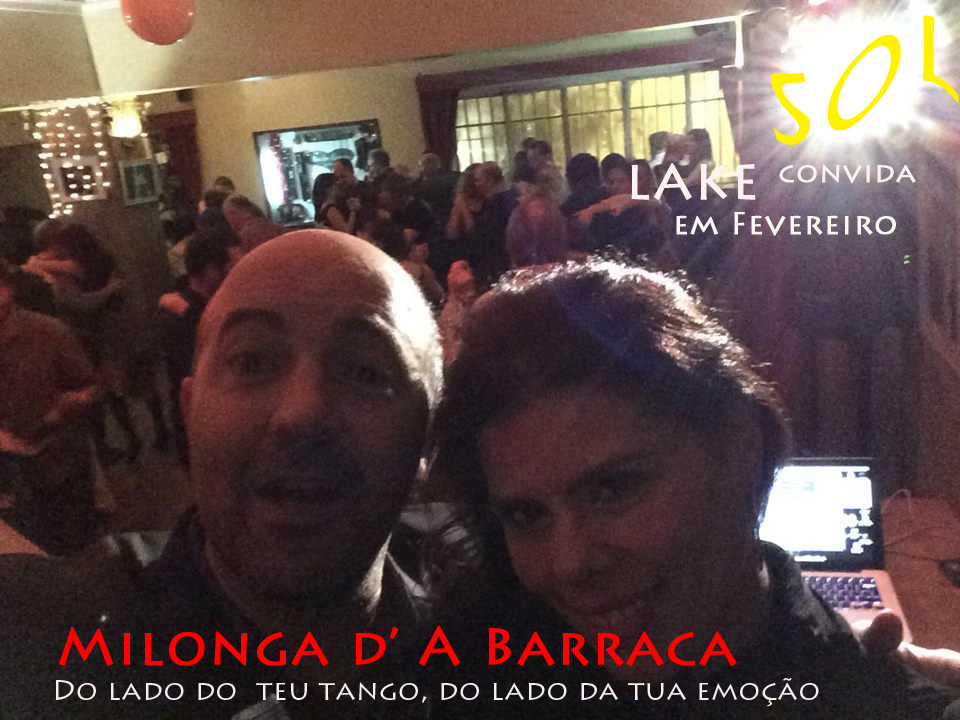
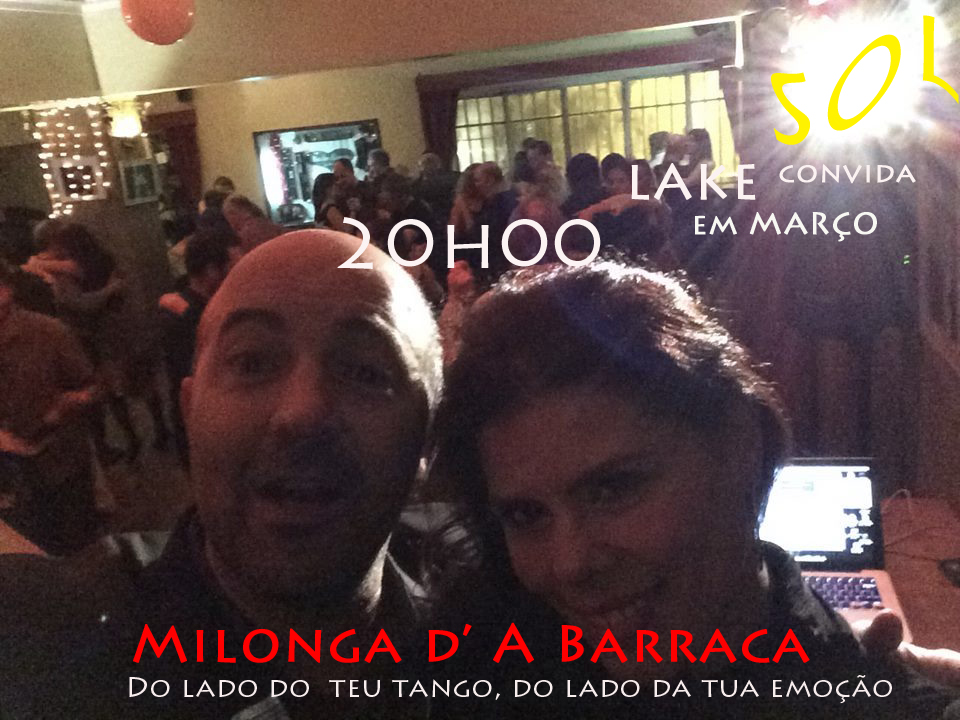
Nova actualizacao

Changed region(s): [[0.0625, 0.8556, 0.9375, 0.9778], [0.3438, 0.3056, 0.625, 0.3972], [0.6875, 0.275, 0.9375, 0.3361]]

diff --git a/public/main.htm b/public/main.htm
@@ -1114,6 +1114,8 @@ Esta emo&ccedil;&atilde;o requer que um &laquo;corpo do tango&raquo; cres&ccedil
         </font></font></font></font></strong></font></strong></font></font></strong></font></font></font></font></strong></font></strong></font></font></font></strong></font></font></font></strong></font></strong></font></font></strong></font></font></font></font></span></strong></strong></font></font></font></strong></strong></font></font></font></strong></font></strong></font></font></strong></font></font></font></font></font></font></font></font></span></span></font></font></font></font></strong></font></strong></font></font></strong></font></font></font></font></strong></font></strong></font></font></font></strong></font></font></font></strong><span class="AULA_DE_TANGO"><font color="#999999"><font color="#999999"><font color="#999999"><font color="#999999"><font color="#999999"><font color="#999999"><font color="#999999"><font color="#999999"><strong><strong><span class="font_12"><font color="#999999"><font color="#999999"><font color="#999999"><font color="#999999"><strong><font color="#999999"><font color="#999999"><strong><font color="#999999"><strong><font color="#999999"><font color="#999999"><font color="#999999"><font color="#999999"><strong><strong><font color="#999999"><font color="#999999"><font color="#999999"><font color="#999999"><strong><strong><span class="MsoNormal" style="text-justify:inter-ideograph; text-align: center;"><span class="MsoNormal" style="text-align:justify;line-height:150%;"><span style="line-height:150%; font-family:'Times New Roman'; font-size:12.0pt; color:black; "><font color="#999999"><span class="style11"><strong><strong><font face="Comic Sans MS"><font color="#CC9900" face="Arial"><font color="#999999"><font color="#999999"><font color="#999999"><font color="#999999"><font color="#999999"><font color="#999999"><font color="#999999"><font color="#999999"><font color="#999999"><font color="#999999"><font color="#999999"><font color="#999999"><font color="#999999"><font color="#999999"><font color="#999999"><font color="#999999"><strong><font color="#999999"><font color="#999999"><strong><font color="#999999"><strong><font color="#999999"><font color="#999999"><font color="#999999"><font color="#999999"><span class="ALEJANDROLAGUNA"><font color="#999999"><font color="#999999"><font color="#999999"><font color="#999999"><font color="#999999"><strong><font color="#999999"><strong><font color="#999999"><font color="#999999"><font color="#999999"><strong><font color="#999999"><strong><font color="#999999"><font color="#999999"><strong><strong><font color="#999999"><font color="#999999"><font color="#999999"><font color="#999999"><strong><font color="#999999"><font color="#999999"><strong><font color="#999999"><strong><font color="#999999"><font color="#999999"><font color="#999999"><font color="#999999"><font color="#999999"><font color="#999999"><font color="#999999"><strong><font color="#999999"><font color="#999999"><strong><font color="#999999"><strong><font color="#999999"><font color="#999999"><font color="#999999"><font color="#999999"><font color="#999999"><font color="#999999"><font color="#999999"><font color="#999999"><font color="#999999"><strong><strong><strong><strong><strong><strong><strong><strong><span class="MsoNormal" style="text-align:justify;line-height:150%;"><span class="MsoNormal" style="text-align:justify;line-height:150%;"><span class="MsoNormal" style="text-align:justify;line-height:150%;"><font color="#999999"><font color="#999999"><font color="#999999"><font color="#999999"><strong><font color="#999999"><font color="#999999"><strong><font color="#999999"><strong><font color="#999999"><font color="#999999"><font color="#999999"><strong><font color="#999999"><font color="#999999"><font color="#999999"><strong><font color="#999999"><strong><span style="font: normal 24px Arial"><font color="#999999"><font color="#999999"><font color="#999999"><font color="#999999"><strong><font color="#999999"><font color="#999999"><strong><font color="#999999"><strong><font color="#999999"><font color="#999999"><font color="#999999"><font color="#999999"><font color="#999999"><font color="#999999"><font color="#999999"><font color="#999999"><font color="#999999"><font color="#999999"><font color="#999999"><font color="#999999"><strong><font color="#999999"><font color="#999999"><strong><font color="#999999"><strong><font color="#999999"><font color="#999999"><font color="#999999"><strong><strong><font color="#999999"><font color="#999999"><font color="#999999"><strong><strong>Domingos / Sunday</strong></strong></font></font></font></strong></strong></font></font></font></strong></font></strong></font></font></strong></font></font></font></font></font></font></font></font></font></font></font></font></strong></font></strong></font></font></strong></font></font></font></font></span></strong></font></strong></font></font></font></strong></font></font></font></strong></font></strong></font></font></strong></font></font></font></font></span></span></span></strong></strong></strong></strong></strong></strong></strong></strong></font></font></font></font></font></font></font></font></font></strong></font></strong></font></font></strong></font></font></font></font></font></font></font></strong></font></strong></font></font></strong></font></font></font></font></strong></strong></font></font></strong></font></strong></font></font></font></strong></font></strong></font></font></font></font></font></span></font></font></font></font></strong></font></strong></font></font></strong></font></font></font></font></font></font></font></font></font></font></font></font></font></font></font></font></font></font></strong></strong></span></font></span></span></span></strong></strong></font></font></font></font></strong></strong></font></font></font></font></strong></font></strong></font></font></strong></font></font></font></font></span></strong></strong></font></font></font></font></font></font></font></font></span><span style="font: normal 24px Arial"><font color="#999999"><font color="#999999"><font color="#999999"><font color="#999999"><font color="#999999"><font color="#999999"><font color="#999999"><font color="#999999"><strong><strong><span class="SBOA"><font color="#999999"><font color="#999999"><font color="#999999"><font color="#999999"><strong><font color="#999999"><font color="#999999"><strong><font color="#999999"><strong><font color="#999999"><font color="#999999"><font color="#999999"><font color="#999999"><strong><strong><font color="#999999"><font color="#999999"><font color="#999999"><font color="#999999"><strong><strong><span class="MsoNormal" style="text-justify:inter-ideograph; text-align: center;"><span class="MsoNormal" style="text-align:justify;line-height:150%;"><span style="line-height:150%; font-family:'Times New Roman'; font-size:12.0pt;"><font color="#999999"><span class="style11"><strong><strong><font color="#CC9900"><font color="#999999"><font color="#999999"><font color="#999999"><font color="#999999"><font color="#999999"><font color="#999999"><font color="#999999"><font color="#999999"><font color="#999999"><font color="#999999"><font color="#999999"><font color="#999999"><font color="#999999"><font color="#999999"><font color="#999999"><font color="#999999"><strong><font color="#999999"><font color="#999999"><strong><font color="#999999"><strong><font color="#999999"><font color="#999999"><font color="#999999"><font color="#999999"><span style="font: normal 18px Arial"><font color="#999999"><font color="#999999"><font color="#999999"><font color="#999999"><font color="#999999"><strong><font color="#999999"><strong><font color="#999999"><font color="#999999"><font color="#999999"><strong><font color="#999999"><strong><font color="#999999"><font color="#999999"><strong><strong><font color="#999999"><font color="#999999"><font color="#999999"><font color="#999999"><strong><font color="#999999"><font color="#999999"><strong><font color="#999999"><strong><font color="#999999"><font color="#999999"><font color="#999999"><font color="#999999"><font color="#999999"><font color="#999999"><font color="#999999"><strong><font color="#999999"><font color="#999999"><strong><font color="#999999"><strong><font color="#999999"><font color="#999999"><font color="#999999"><font color="#999999"><font color="#999999"><font color="#999999"><font color="#999999"><font color="#999999"><font color="#999999"><strong><strong><strong><strong><strong><strong><strong><strong><span class="MsoNormal" style="text-align:justify;line-height:150%;"><span class="MsoNormal" style="text-align:justify;line-height:150%;"><span class="MsoNormal" style="text-align:justify;line-height:150%;"><font color="#999999"><font color="#999999"><font color="#999999"><font color="#999999"><strong><font color="#999999"><font color="#999999"><strong><font color="#999999"><strong><font color="#999999"><font color="#999999"><font color="#999999"><strong><font color="#999999"><font color="#999999"><font color="#999999"><strong><font color="#999999"><strong><span style="font: normal 24px Arial; font-size: 24px"><font color="#999999"><font color="#999999"><font color="#999999"><font color="#999999"><strong><font color="#999999"><font color="#999999"><strong><font color="#999999"><strong><font color="#999999"><font color="#999999"><font color="#999999"><font color="#999999"><font color="#999999"><font color="#999999"><font color="#999999"><font color="#999999"><font color="#999999"><font color="#999999"><font color="#999999"><font color="#999999"><strong><font color="#999999"><font color="#999999"><strong><font color="#999999"><strong><font color="#999999"><font color="#999999"><font color="#999999"><strong><strong><font color="#999999"><font color="#999999"><strong><strong>: </strong></strong></font></font></strong></strong></font></font></font></strong></font></strong></font></font></strong></font></font></font></font></font></font></font></font></font></font></font></font></strong></font></strong></font></font></strong></font></font></font></font></span></strong></font></strong></font></font></font></strong></font></font></font></strong></font></strong></font></font></strong></font></font></font></font></span></span></span></strong></strong></strong></strong></strong></strong></strong></strong></font></font></font></font></font></font></font></font></font></strong></font></strong></font></font></strong></font></font></font></font></font></font></font></strong></font></strong></font></font></strong></font></font></font></font></strong></strong></font></font></strong></font></strong></font></font></font></strong></font></strong></font></font></font></font></font></span></font></font></font></font></strong></font></strong></font></font></strong></font></font></font></font></font></font></font></font></font></font></font></font></font></font></font></font></font></strong></strong></span></font></span></span></span></strong></strong></font></font></font></font></strong></strong></font></font></font></font></strong></font></strong></font></font></strong></font></font></font></font></span></strong></strong></font></font></font></font></font></font></font></font></span><span class="AULA_DE_TANGO"><font color="#999999"><font color="#999999"><font color="#999999"><font color="#999999"><font color="#999999"><font color="#999999"><font color="#999999"><font color="#999999"><strong><strong><span class="font_12"><font color="#999999"><font color="#999999"><font color="#999999"><font color="#999999"><strong><font color="#999999"><font color="#999999"><strong><font color="#999999"><strong><font color="#999999"><font color="#999999"><font color="#999999"><font color="#999999"><strong><strong><font color="#999999"><font color="#999999"><font color="#999999"><font color="#999999"><strong><strong><span class="MsoNormal" style="text-justify:inter-ideograph; text-align: center;"><span class="MsoNormal" style="text-align:justify;line-height:150%;"><span style="line-height:150%; font-family:'Times New Roman'; font-size:12.0pt; color:black; "><font color="#999999"><span class="style11"><strong><strong><font face="Comic Sans MS"><font color="#CC9900" face="Arial"><font color="#999999"><font color="#999999"><font color="#999999"><font color="#999999"><font color="#999999"><font color="#999999"><font color="#999999"><font color="#999999"><font color="#999999"><font color="#999999"><font color="#999999"><font color="#999999"><font color="#999999"><font color="#999999"><font color="#999999"><font color="#999999"><strong><font color="#999999"><font color="#999999"><strong><font color="#999999"><strong><font color="#999999"><font color="#999999"><font color="#999999"><font color="#999999"><span class="ALEJANDROLAGUNA"><font color="#999999"><font color="#999999"><font color="#999999"><font color="#999999"><font color="#999999"><strong><font color="#999999"><strong><font color="#999999"><font color="#999999"><font color="#999999"><strong><font color="#999999"><strong><font color="#999999"><font color="#999999"><strong><strong><font color="#999999"><font color="#999999"><font color="#999999"><font color="#999999"><strong><font color="#999999"><font color="#999999"><strong><font color="#999999"><strong><font color="#999999"><font color="#999999"><font color="#999999"><font color="#999999"><font color="#999999"><font color="#999999"><font color="#999999"><strong><font color="#999999"><font color="#999999"><strong><font color="#999999"><strong><font color="#999999"><font color="#999999"><font color="#999999"><font color="#999999"><font color="#999999"><font color="#999999"><font color="#999999"><font color="#999999"><font color="#999999"><strong><strong><strong><strong><strong><strong><strong><strong><span class="MsoNormal" style="text-align:justify;line-height:150%;"><span class="MsoNormal" style="text-align:justify;line-height:150%;"><span class="MsoNormal" style="text-align:justify;line-height:150%;"><font color="#999999"><font color="#999999"><font color="#999999"><font color="#999999"><strong><font color="#999999"><font color="#999999"><strong><font color="#999999"><strong><font color="#999999"><font color="#999999"><font color="#999999"><strong><font color="#999999"><font color="#999999"><font color="#999999"><strong><font color="#999999"><strong><span style="font: normal 24px Arial"><font color="#999999"><font color="#999999"><font color="#999999"><font color="#999999"><strong><font color="#999999"><font color="#999999"><strong><font color="#999999"><strong><font color="#999999"><font color="#999999"><font color="#999999"><font color="#999999"><font color="#999999"><font color="#999999"><font color="#999999"><font color="#999999"><font color="#999999"><font color="#999999"><font color="#999999"><font color="#999999"><strong><font color="#999999"><font color="#999999"><strong><font color="#999999"><strong><font color="#999999"><font color="#999999"><font color="#999999"><strong><strong><font color="#999999"><font color="#999999"><font color="#999999"><strong><strong>21h30 &mdash; 00h30</strong></strong></font></font></font></strong></strong></font></font></font></strong></font></strong></font></font></strong></font></font></font></font></font></font></font></font></font></font></font></font></strong></font></strong></font></font></strong></font></font></font></font></span></strong></font></strong></font></font></font></strong></font></font></font></strong></font></strong></font></font></strong></font></font></font></font><img src="XVI anos.JPG" alt="" width="580" height="173"></span></span></span></strong></strong></strong></strong></strong></strong></strong></strong></font></font></font></font></font></font></font></font></font></strong></font></strong></font></font></strong></font></font></font></font></font></font></font></strong></font></strong></font></font></strong></font></font></font></font></strong></strong></font></font></strong></font></strong></font></font></font></strong></font></strong></font></font></font></font></font></span></font></font></font></font></strong></font></strong></font></font></strong></font></font></font></font></font></font></font></font></font></font></font></font></font></font></font></font></font></font></strong></strong></span></font></span></span></span></strong></strong></font></font></font></font></strong></strong></font></font></font></font></strong></font></strong></font></font></strong></font></font></font></font></span></strong></strong></font></font></font></font></font></font></font></font></span></font></strong><font color="#999999"><font color="#999999"><strong><font color="#999999"><strong><font color="#999999"><font color="#999999"><font color="#999999"><strong><font color="#999999"><font color="#999999"><strong><strong><span style="font: normal 24px Arial"><br>
           </span></strong></strong></font></font></strong></font></font></font></strong></font></strong></font></font></font></font></strong></font></font></font></font><span class="style111"><font color="#999999"><font color="#999999"><font color="#999999"><font color="#999999"><font color="#999999"><font color="#999999"><font color="#999999"><font color="#999999"><strong><font color="#999999"><font color="#999999"><strong><font color="#999999"><strong><font color="#999999"><font color="#999999"><font color="#999999"><strong><strong><font color="#999999"><font color="#999999"><font color="#999999"><strong><strong><span class="SBOA"><span style="font: normal 24px Arial"><font color="#999999"><font color="#999999"><font color="#999999"><font color="#999999"><strong><font color="#999999"><font color="#999999"><strong><font color="#999999"><strong><font color="#999999"><font color="#999999"><font color="#999999"><font color="#999999"><strong><strong><font color="#999999"><font color="#999999"><font color="#999999"><font color="#999999"><strong><strong><span class="MsoNormal" style="text-justify:inter-ideograph; text-align: center;">U</span></strong></strong></font></font></font></font></strong></strong></font></font></font></font></strong></font></strong></font></font></strong></font></font></font></font></span></span><span class="font_12"><span class="AULA_DE_TANGO"><font color="#999999"><font color="#999999"><font color="#999999"><font color="#999999"><strong><font color="#999999"><font color="#999999"><strong><font color="#999999"><strong><font color="#999999"><font color="#999999"><font color="#999999"><font color="#999999"><strong><strong><font color="#999999"><font color="#999999"><font color="#999999"><font color="#999999"><strong><strong><span class="MsoNormal" style="text-justify:inter-ideograph; text-align: center;">m  pedacinho de Buenos A</span></strong></strong></font></font></font></font></strong></strong></font></font></font></font></strong></font></strong></font></font></strong></font></font></font></font></span><span style="font: normal 24px Arial"><font color="#999999"><font color="#999999"><font color="#999999"><font color="#999999"><strong><font color="#999999"><font color="#999999"><strong><font color="#999999"><strong><font color="#999999"><font color="#999999"><font color="#999999"><font color="#999999"><strong><strong><font color="#999999"><font color="#999999"><font color="#999999"><font color="#999999"><strong><strong><span class="MsoNormal" style="text-justify:inter-ideograph; text-align: center;">ire</span></strong></strong></font></font></font></font></strong></strong></font></font></font></font></strong></font></strong></font></font></strong></font></font></font></font></span></span><span style="font: normal 13px/normal Arial"><span class="SBOA"><span style="font: normal 24px Arial"><font color="#999999"><font color="#999999"><font color="#999999"><font color="#999999"><strong><font color="#999999"><font color="#999999"><strong><font color="#999999"><strong><font color="#999999"><font color="#999999"><font color="#999999"><font color="#999999"><strong><strong><font color="#999999"><font color="#999999"><font color="#999999"><font color="#999999"><strong><strong><span class="MsoNormal" style="text-justify:inter-ideograph; text-align: center;">s </span></strong></strong></font></font></font></font></strong></strong></font></font></font></font></strong></font></strong></font></font></strong></font></font></font></font></span></span></span></strong></strong><font color="#999999"><font color="#999999"><font color="#999999"><strong><strong><span class="font_12"><span style="font: normal 24px Arial"><font color="#999999"><font color="#999999"><font color="#999999"><font color="#999999"><strong><font color="#999999"><font color="#999999"><strong><font color="#999999"><strong><font color="#999999"><font color="#999999"><font color="#999999"><font color="#999999"><strong><strong><font color="#999999"><font color="#999999"><font color="#999999"><font color="#999999"><strong><strong><span class="MsoNormal" style="text-justify:inter-ideograph; text-align: center;"><span class="MsoNormal" style="text-justify:inter-ideograph;">na</span></span></strong></strong></font></font></font></font></strong></strong></font></font></font></font></strong></font></strong></font></font></strong></font></font></font></font></span><span class="AULA_DE_TANGO"><font color="#999999"><font color="#999999"><font color="#999999"><font color="#999999"><strong><font color="#999999"><font color="#999999"><strong><font color="#999999"><strong><font color="#999999"><font color="#999999"><font color="#999999"><font color="#999999"><strong><strong><font color="#999999"><font color="#999999"><font color="#999999"><font color="#999999"><strong><strong><span class="MsoNormal" style="text-justify:inter-ideograph; text-align: center;"><span class="MsoNormal" style="text-justify:inter-ideograph;"> bela Lisboa</span></span></strong></strong></font></font></font></font></strong></strong></font></font></font></font></strong></font></strong></font></font></strong></font></font></font></font></span></span></strong></strong></font></font></font></font></font></font></strong></strong></font></font></font></strong></font></strong></font></font></strong></font></font></font></font></font></font></font></font><br>
           06 de Mar&ccedil;o &mdash; Milonga n&ordm;835</span><br>
+          MUSICALIZA ILIDIO VARANDAS
+          <br>
           <font color="#999999"><font color="#999999"><font color="#999999"><font color="#999999"><strong><font color="#999999"><font color="#999999"><strong><font color="#999999"><strong><font color="#999999"><font color="#999999"><font color="#999999"><font color="#999999"><font color="#999999"><font color="#999999"><font color="#999999"><font color="#999999"><font color="#999999"><strong><font color="#999999"><strong><font color="#999999"><font color="#999999"><font color="#999999"><strong><font color="#999999"><strong><font color="#999999"><font color="#999999"><strong><strong><font color="#999999"><font color="#999999"><font color="#999999"><font color="#999999"><strong><font color="#999999"><font color="#999999"><strong><font color="#999999"><strong><font color="#999999"><font color="#999999"><font color="#999999"><font color="#999999"><font color="#999999"><font color="#999999"><font color="#999999"><strong><font color="#999999"><font color="#999999"><strong><font color="#999999"><strong><font color="#999999"><font color="#999999"><font color="#999999"><font color="#999999"><font color="#999999"><font color="#999999"><font color="#999999"><font color="#999999"><font color="#999999"><font color="#999999"><font color="#999999"><strong><font color="#999999"><font color="#999999"><strong><font color="#999999"><strong><font color="#999999"><font color="#999999"><font color="#999999"><font color="#999999"><strong><font color="#999999"><font color="#999999"><strong><font color="#999999"><strong><font color="#999999"><font color="#999999"><font color="#999999"><font color="#999999"><strong><strong><span class="MsoNormal" style="text-align:justify;line-height:150%;"><font color="#999999"><font color="#999999"><font color="#999999"><font color="#999999"><strong><strong><font color="#CC9900" face="Arial"><a href="http://www.abarraca.com" target="_new">Teatro A Barraca</a> &mdash; Largo de Santos 2<span style="text-align: center; font: normal 14px Arial;">,</span> Santos &mdash; LISBOA<a href="http://maps.google.pt/maps?q=teatro+cinearte&hl=pt-PT&ll=38.708135,-9.15498&spn=0.008355,0.017359&fb=1&gl=pt&hq=teatro+cinearte&cid=0,0,1870763517737540757&sqi=2&t=m&z=16" target="_new">&nbsp;&nbsp;<br>
           How to get there? Milonga d' A Barraca</a><span class="SBOA"><a href="http://maps.google.pt/maps?q=teatro+cinearte&hl=pt-PT&ll=38.708135,-9.15498&spn=0.008355,0.017359&fb=1&gl=pt&hq=teatro+cinearte&cid=0,0,1870763517737540757&sqi=2&t=m&z=16" target="_new">,</a></span><a href="http://maps.google.pt/maps?q=teatro+cinearte&hl=pt-PT&ll=38.708135,-9.15498&spn=0.008355,0.017359&fb=1&gl=pt&hq=teatro+cinearte&cid=0,0,1870763517737540757&sqi=2&t=m&z=16" target="_new">  MA</a></font></strong></strong></font></font></font></font></span></strong></strong></font></font></font></font></strong></font></strong></font></font></strong></font></font></font></font></strong></font></strong></font></font></strong></font></font></font></font></font></font></font></font></font></font></font></strong></font></strong></font></font></strong></font></font></font></font></font></font></font></strong></font></strong></font></font></strong></font></font></font></font></strong></strong></font></font></strong></font></strong></font></font></font></strong></font></strong></font></font></font></font></font></font></font></font></font></strong></font></strong></font></font></strong><font color="#999999"><font color="#999999"><font color="#999999"><font color="#999999"><strong><font color="#999999"><font color="#999999"><strong><font color="#999999"><strong><font color="#999999"><font color="#999999"><font color="#999999"><font color="#999999"><font color="#999999"><font color="#999999"><font color="#999999"><font color="#999999"><font color="#999999"><strong><font color="#999999"><strong><font color="#999999"><font color="#999999"><font color="#999999"><strong><font color="#999999"><strong><font color="#999999"><font color="#999999"><strong><strong><font color="#999999"><font color="#999999"><font color="#999999"><font color="#999999"><strong><font color="#999999"><font color="#999999"><strong><font color="#999999"><strong><font color="#999999"><font color="#999999"><font color="#999999"><font color="#999999"><font color="#999999"><font color="#999999"><font color="#999999"><strong><font color="#999999"><font color="#999999"><strong><font color="#999999"><strong><font color="#999999"><font color="#999999"><font color="#999999"><font color="#999999"><font color="#999999"><font color="#999999"><font color="#999999"><font color="#999999"><font color="#999999"><font color="#999999"><font color="#999999"><strong><font color="#999999"><font color="#999999"><strong><font color="#999999"><strong><font color="#999999"><font color="#999999"><font color="#999999"><font color="#999999"><strong><font color="#999999"><font color="#999999"><strong><font color="#999999"><strong><font color="#999999"><font color="#999999"><font color="#999999"><font color="#999999"><strong><strong><strong><strong><font color="#CC9900" face="Arial"><a href="http://maps.google.pt/maps?q=teatro+cinearte&hl=pt-PT&ll=38.708135,-9.15498&spn=0.008355,0.017359&fb=1&gl=pt&hq=teatro+cinearte&cid=0,0,1870763517737540757&sqi=2&t=m&z=16" target="_new">P<a href="http://www.tangoportugal.com/MilenaPlebs.htm"></a></font></strong></strong></strong></strong></font></font></font></font></strong></font></strong></font></font></strong></font></font></font></font></strong></font></strong></font></font></strong></font></font></font></font></font></font></font></font></font></font></font></strong></font></strong></font></font></strong></font></font></font></font></font></font></font></strong></font></strong></font></font></strong></font></font></font></font></strong></strong></font></font></strong></font></strong></font></font></font></strong></font></strong></font></font></font></font></font></font></font></font></font></strong></font></strong></font></font></strong></font></font></font></font></font></font></font></font><span style="font-family:'Times New Roman'; font-size:12.0pt; color:black; "><br>
           <br>
